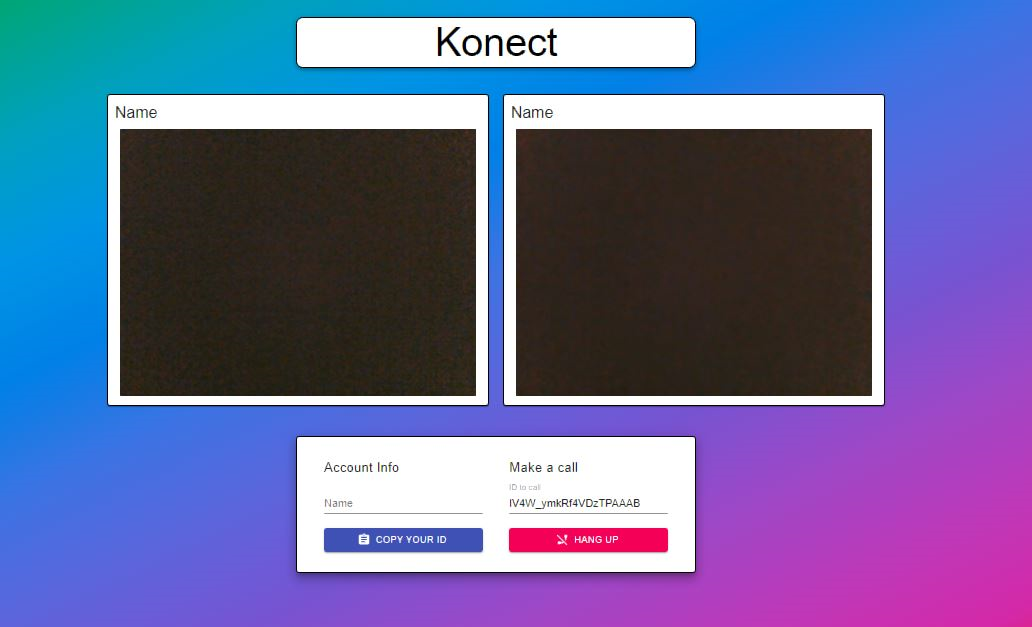
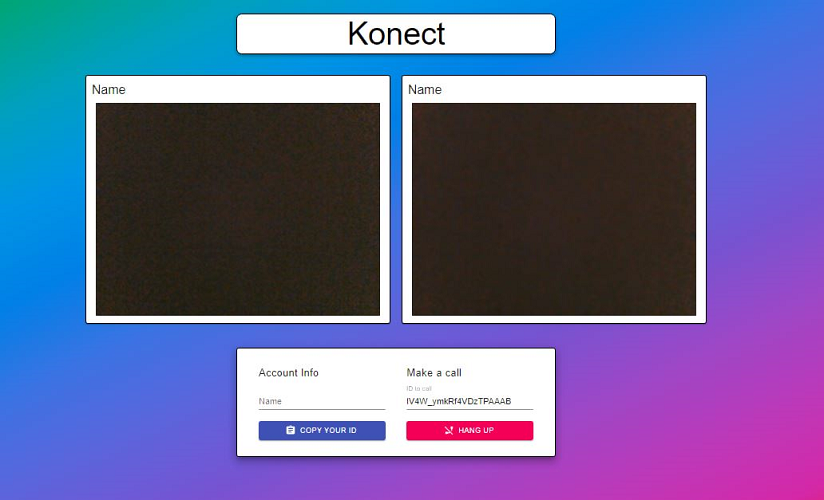
added project photo

diff --git a/src/constants/constants.js b/src/constants/constants.js
@@ -23,7 +23,7 @@ export const projects = [
     title: "KONECT",
     description:
       "Developed Video-Chat application similar to zoom and Google meet.Allow User to Connect to their friend and Video Chat without Registration ",
-    image: "/images/3.jpg",
+    image: "/images/3.png",
     tags: ["React", "WebRTC", "Node.js", "Socket.io"],
     source: "https://github.com/Search-Pankaj/konect",
     visit: "https://konect.netlify.app/",
